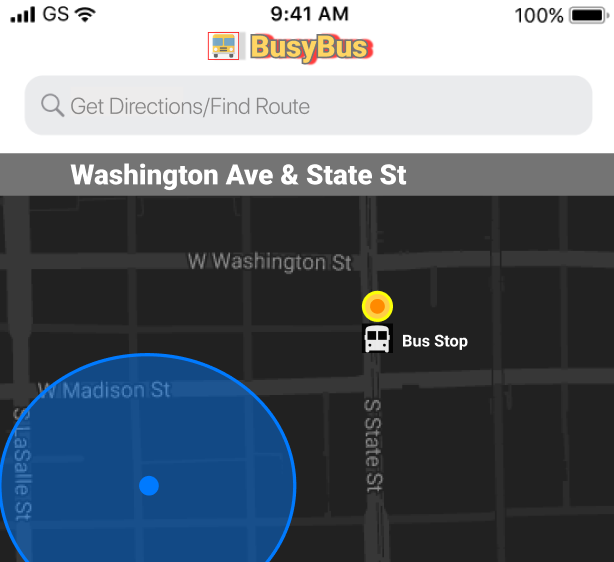
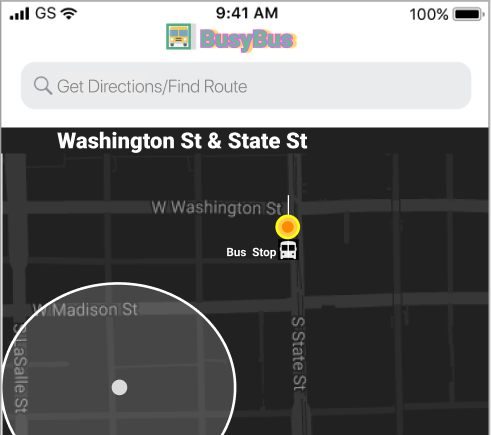
Better version BusyBus

diff --git a/css/style.css b/css/style.css
@@ -1,52 +1,82 @@
 body{
   margin: 0;
   padding: 0;
-  background: #fcf7f2;}
+  /* height: 100%; */
+  width:auto;
+  overflow-y: scroll;
+  overflow-x: hidden;
+  overflow-y: hidden;
+  background: black;
+}
 h1{
   display:inline-block;
-  background-color:#FFCE47;
+  background-color:#51ad88;
   border-radius: 2px;
   width: 100%;
   font-size: 10px
   font-weight: 900;
   font-family: 'Mukta', sans-serif;
-  height:2%;
-  color: #747474;
+  height:5px;
+  color: #fff;
   text-align: center;
-  padding: 2px 0px 7px 0px;
-}
-  h2{
-padding-bottom:2.5px;
-  }
-  h3{
+  padding: 2px 0px 15px 0px;}
+h2{
+  padding-bottom:2.5px;
+  color:#dbd411;
+  height:8px;}
+h3{
   float: right;
   display: inline-block;
-  color: red;
-  margin-right: 6%;
+  color: #f9fbff;
   border-radius: 2px;
-  font-size: 16px;
-  padding-right: 10px;
-  font-weight: 900;}
-  h4{
-  background-color:#007AFF;
+  font-size: 14px;
+  ;}
+h4{
   width: 25%;
-  padding: 0px 2px 1px 5px;
-  color: #fff;
+  padding: 1px 1px 1px 1px;
+  color: #e842f4;
   border-radius: 2px;
-  }
+  height: 1px;}
+nav{
+  position: fixed;
+  bottom: 65px;
+  left: 10px;
+  background: white;
+  width: 93%;
+  padding:0px 0px 0px 0px;}
+.scroll{
+  /* width: 414px;
+ height: 936px;
+ margin: 0px auto;
+ position: relative;
+ overflow: scroll;
+ background-color: #E0E0E0;
+  */
 
-.column{
-  display:inline-block;
+  /* Copied scroll */
+
+  height: auto;
+  /* width: 140px; */
+  overflow: scroll;
+}
+/* .nav-bar {
+  position: fixed;
+  bottom: 30px;
+  background: white;
   width: 100%;
-  float:left;
+} */
+.column{
+  /* display:inline-block; */
+  width: 78.5%;
+  /* float:left; */
   font-size: 12px;
   font-family: 'Mukta', sans-serif;
   font-weight: 900;
   border-radius: 2px;
-  height: 3.4%;
+  height: 2.8%;
   text-align: left;
   padding: 7px 40px 11px 16px;
-  color: black;}
+  background-color: black;}
 .center{
   position: absolute;
   top: 50%;
@@ -55,14 +85,14 @@ padding-bottom:2.5px;
 .mobile{
   width: 276px;
   height: 580px;
-  background: #141211;
+  background: #eff2f2;
   border-radius: 30px;
   border: 2px solid rgba(0,0,0,.3);
   box-sizing: border-box;
   box-shadow: inset 0 0 8px rgba(0,0,0,.3);}
 .screen{
   position: relative;
-  background: #262626;
+  background:  #fff;
   width: 256px;
   height: 455px;
   margin: 58px auto;
@@ -74,13 +104,13 @@ padding-bottom:2.5px;
   transform: translate(-50%);
   width: 40px;
   height: 40px;
-  background:#262626;
+  background:#f9fbff;
   box-shadow: inset 0 0 7px rgba(0,0,0,.1);
   border-radius:50%;
-  border: 2px solid  #262626;
+  border: 2px solid  grey;
   box-sizing: border-box;
   cursor: pointer;
-  background-color:black;}
+  background-color:#f9fbff;}
 .inner{
   position: absolute;
   top: 32px;
@@ -88,7 +118,7 @@ padding-bottom:2.5px;
   transform: translateX(-50%);
   width: 40px;
   height: 4px;
-  background: #262626;
+  background: grey;
   border-radius: 2px;
   box-sizing: border-box;}
 .inner:before{
@@ -96,7 +126,7 @@ padding-bottom:2.5px;
   position: absolute;
   top: -2px;
   left: -22px;
-  background: #262626;
+  background: grey;
   width: 8px;
   height: 8px;
   border-radius: 44%;}
@@ -105,7 +135,7 @@ padding-bottom:2.5px;
   position: absolute;
   top: -16px;
   left: 45%;
-  background: #262626;
+  background: grey;
   width: 6px;
   height: 6px;
   border-radius: 45%;
@@ -119,46 +149,43 @@ padding-bottom:2.5px;
 .volume li{
   list-style: none;
   width: 2px;
-    height: 30px;
-  background: #ccc;
-    margin: 10px 0;
-    border-top-left-radius: 4px;
-    border-bottom-left-radius: 4px;
-    background-color: #332a27;}
+  height: 30px;
+  background: #f9fbff;
+  margin: 10px 0;
+  border-top-left-radius: 4px;
+  border-bottom-left-radius: 4px;
+  background-color: #f9fbff;}
 .silent{
-    margin: 0;
-    padding: 0;
-    position: absolute;
-    top: 50px;
-    left: -2px;}
+  margin: 0;
+  padding: 0;
+  position: absolute;
+  top: 50px;
+  left: -2px;}
 .silent li{
-    list-style: none;
-    width: 2px;
-    height: 20px;
-    background: #ccc;
-    margin: 10px 0;
-    border-top-left-radius: 4px;
-    border-bottom-left-radius: 4px;
-    background-color: #332a27;}
+  list-style: none;
+  width: 2px;
+  height: 20px;
+  background: #ccc;
+  margin: 10px 0;
+  border-top-left-radius: 4px;
+  border-bottom-left-radius: 4px;
+  background-color: #f9fbff;}
 .sleep{
-    margin: 0;
-    padding: 0;
-    position: absolute;
-    top: 90px;
-    right: -2px;}
+  margin: 0;
+  padding: 0;
+  position: absolute;
+  top: 90px;
+  right: -2px;}
 .sleep li{
-    list-style: none;
-    width: 2px;
-    height: 30px;
-    background: #ccc;
-    margin: 10px 0;
-    border-top-right-radius: 4px;
-    border-bottom-right-radius: 4px;
-    background-color: #332a27;}
+  list-style: none;
+  width: 2px;
+  height: 30px;
+  background: #ccc;
+  margin: 10px 0;
+  border-top-right-radius: 4px;
+  border-bottom-right-radius: 4px;
+  background-color: #f9fbff;}
 .busymap{
-    width: 256px;
-    height: 61%;
-    border: 5px;}
-.tbar{
-    width: 256px;
-    padding-top: 0%;}
+  width: 256px;
+  height: 48%;
+  border: 5px;}

diff --git a/index.html b/index.html
@@ -5,39 +5,72 @@
       <link href="https://fonts.googleapis.com/css?family=Mukta" rel="stylesheet">
       <link rel="stylesheet" type="text/css" href="css/reset.css">
       <link rel="stylesheet" type="text/css" href="css/style.css">
+      <link rel="stylesheet" href="https://use.fontawesome.com/releases/v5.3.1/css/all.css" integrity="sha384-mzrmE5qonljUremFsqc01SB46JvROS7bZs3IO2EmfFsd15uHvIt+Y8vEf7N7fWAU" crossorigin="anonymous">
         <title>i phone 8 busybus frontend challenge</title>
   </head>
     <body>
+
      <div   class="center">
        <div   class="mobile">
         <div   class="screen">
-          <img class="busymap" src="images/map.png" alt="busybus map">
-           <h1>Approaching Bus/Bus Routes/ETA</h1>
-            <div class="row">
-            <div class="column" style="background-color:#ddd;">
-                  <h2>124/via Navy Pier</h2>
-                  <h3>10 Min</h3>
-                  <h4>Eastbound</h4>
+          <img class="busymap" src="Images/map.png" alt="Map of current location & Bus Stop">
+           <h1>Next Approaching Bus <i class="far fa-clock"></i></h1>
+            <div class="scroll">
+
+              <!-- <div class="row"> -->
+
+                <div class="column" style="background-color:#212121;">
+                      <h2>124/via Navy Pier</h2>
+                      <h3>10 Min</h3>
+                      <h4>Eastbound</h4>
+                  </div>
+                 <div class="column" style="background-color:#212121;">
+                      <h2>J14/via Stony Island & 103rd</h2>
+                      <h3>15 Min</h3>
+                      <h4>Southbound</h4>
+                  </div>
+                <!-- </div> -->
+            <!-- <div class="row"> -->
+                <div class="column" style="background-color:#212121;">
+                      <h2>151/via Devon & Clark</h2>
+                      <h3>16 Min</h3>
+                      <h4>Northbound</h4>
+                 </div>
+                  <div class="column" style="background-color:#212121;">
+                     <h2>60/Randolph/Harbor Dr</h2>
+                     <h3>20 Min</h3>
+                     <h4>Southbound</h4>
+                  </div>
+                  <div class="column" style="background-color:#212121;">
+                     <h2>4/Cottage Grove Dr</h2>
+                     <h3>Inactive</h3>
+                     <h4>Southbound</h4>
+
+                   </div>
+                    <div class="column" style="background-color:#212121;">
+                       <h2>20/Madison</h2>
+                       <h3>Inactive</h3>
+                       <h4>Southbound</h4>
+
+                     </div>
+                     <div class="column" style="background-color:#212121;">
+                         <h2>157/Streeterville/Taylor</h2>
+                         <h3>Inactive</h3>
+                         <h4>Southbound</h4>
+                    </div>
               </div>
-            <div class="column" style="background-color:#ccc;">
-                  <h2>J14/via Stony Island & 103rd</h2>
-                  <h3>15 Min</h3>
-                  <h4>Southbound</h4>
+            </div>
+            <div class="nav-bar">
+
+            <nav>
+              <i class="icon fas fa-angle-left" style= "font-size: 27px"> </i>
+              <i class="icon fas fa-angle-right"style= "font-size: 27px"></i>
+              <i class="icon fas fa-cloud-upload-alt"style= "font-size: 20px"></i>
+              <i class="icon far fa-bookmark"style= "font-size: 19px"></i>
+              <i class="icon far fa-clone" style= "font-size: 19px"></i>
+            </nav>
               </div>
-              </div>
-            <div class="row">
-            <div class="column" style="background-color:#bbb;">
-                  <h2>151/via Devon & Clark</h2>
-                  <h3>16 Min</h3>
-                  <h4>Northbound</h4>
-             </div>
-             <div class="column" style="background-color:#aaa;">
-                 <h2>60/Randolph/Harbor Dr</h2>
-                 <h3>20 Min</h3>
-                 <h4>Eastbound</h4>
-             </div>
-             </div>
-                  <img class="tbar" src="images/tbar.png" alt="tab bar">
+
               </div>
               <div class="home">
               </div>
